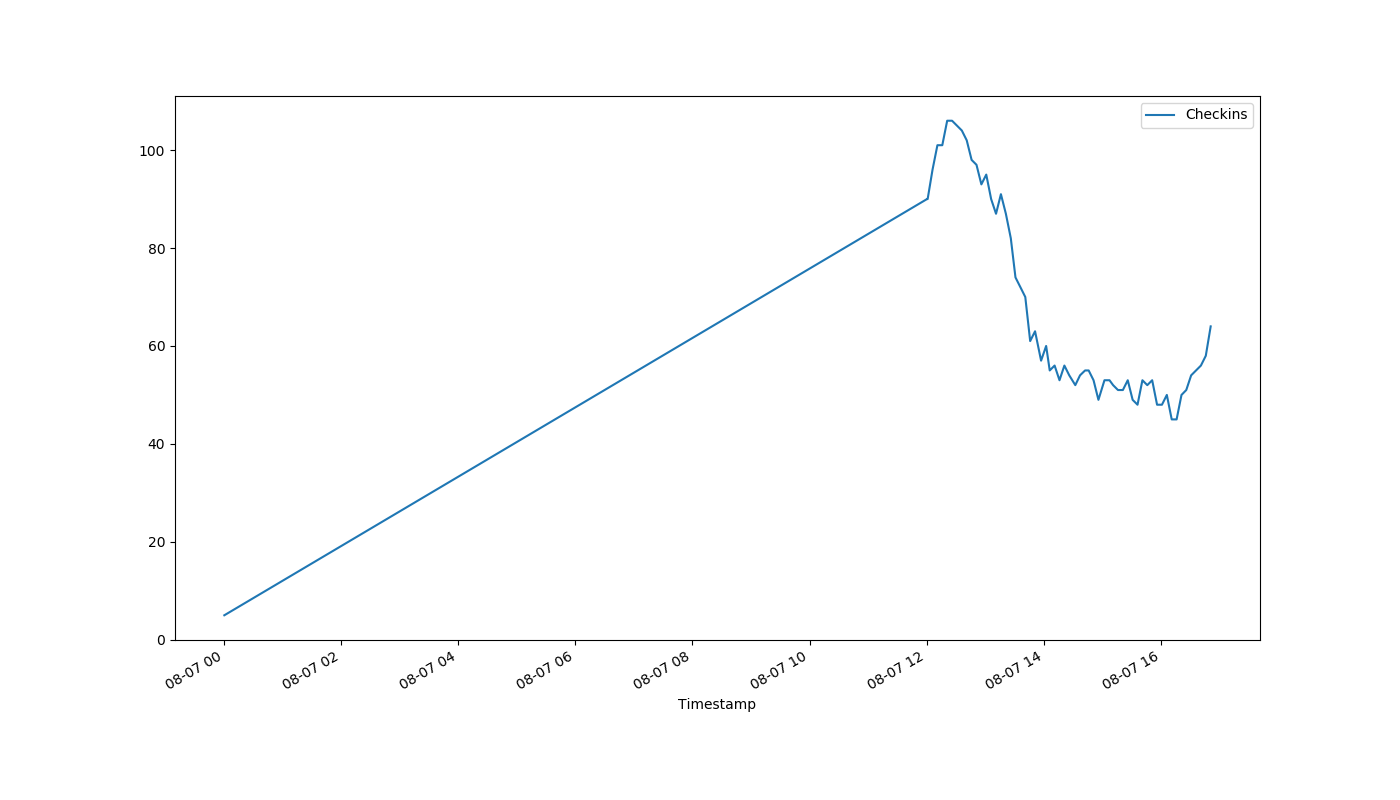
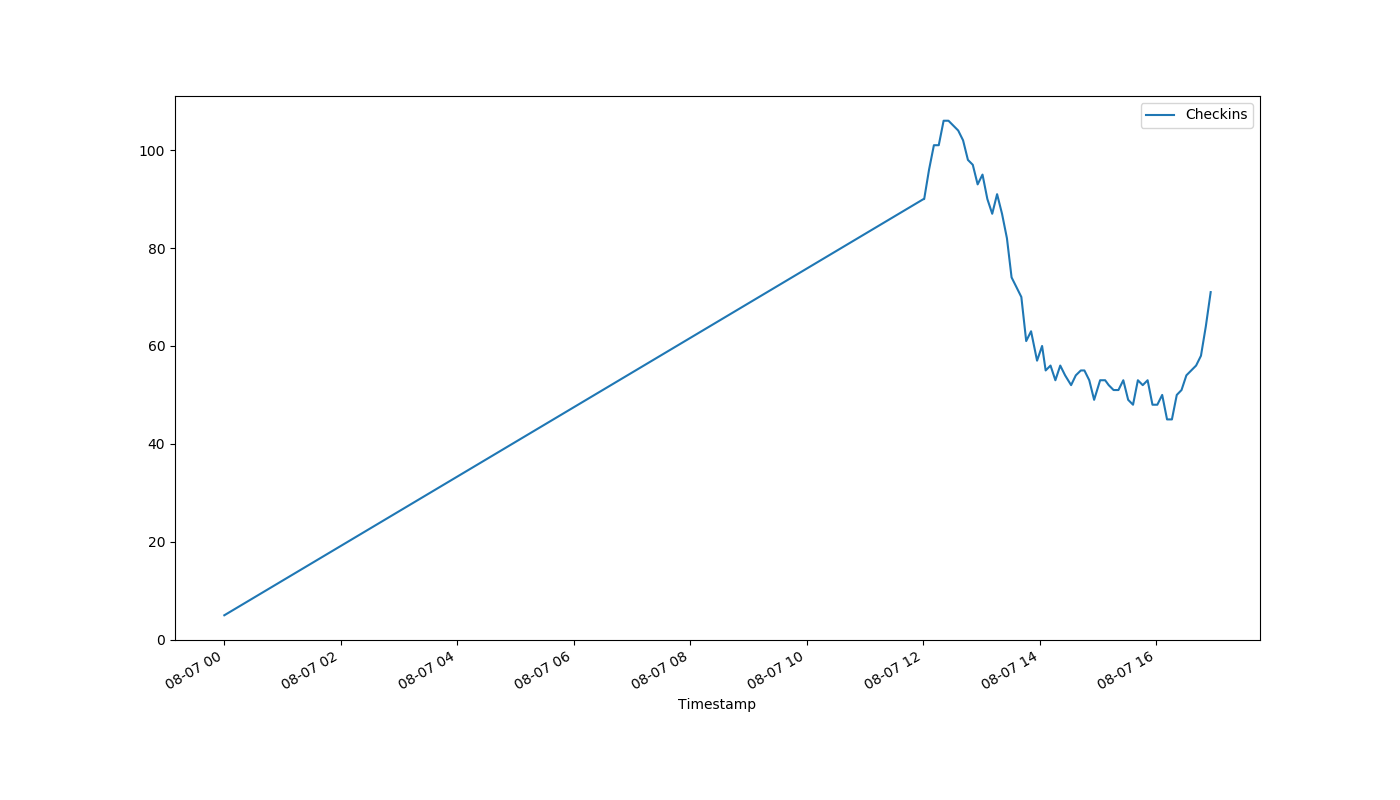
auto-Aug-07-16:57:18

diff --git a/index.html b/index.html
@@ -1,1 +1,1 @@
-<!DOCTYPE html><html><head><meta http-equiv="refresh" content="30"><link rel='stylesheet' href='holmcurrent.css'></head><body><p id='count'>64</p><div id='graph-wrap'><img id='graph' src='holmgraph-Aug-07.png'></div><p id='updated'>Last updated 16:52:01 / 16:51:04</p></body></html>
+<!DOCTYPE html><html><head><meta http-equiv="refresh" content="30"><link rel='stylesheet' href='holmcurrent.css'></head><body><p id='count'>71</p><div id='graph-wrap'><img id='graph' src='holmgraph-Aug-07.png'></div><p id='updated'>Last updated 16:57:01 / 16:56:04</p></body></html>
